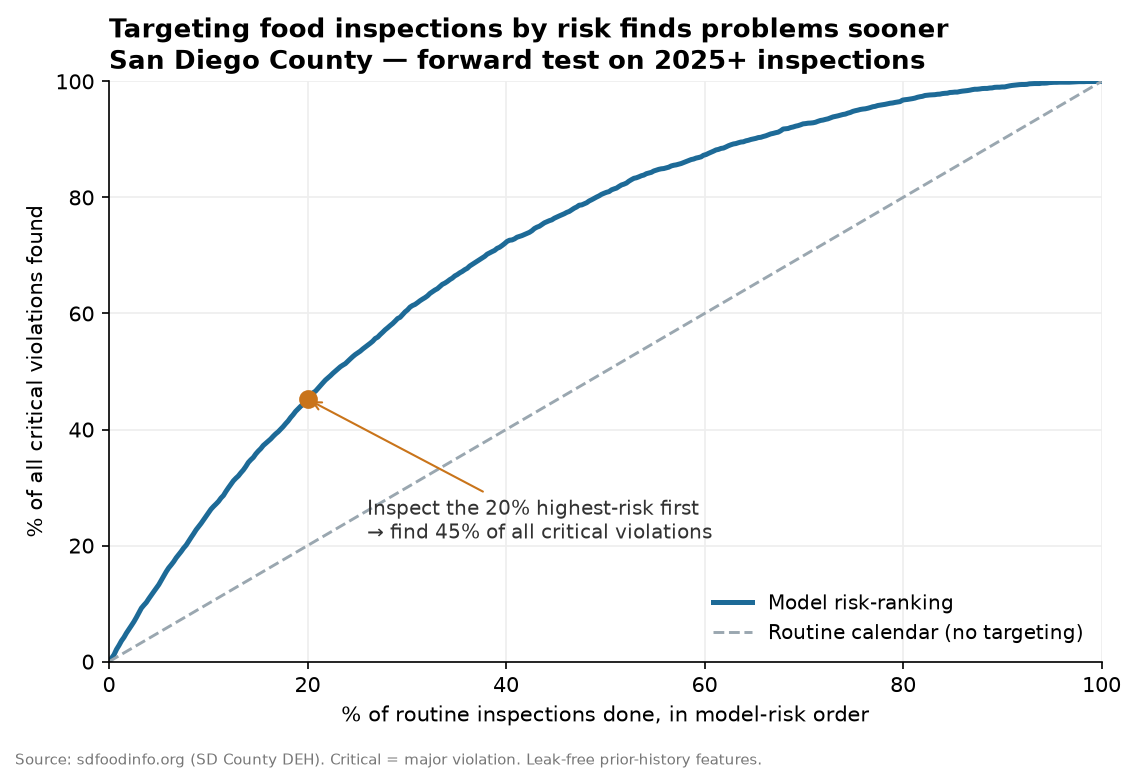
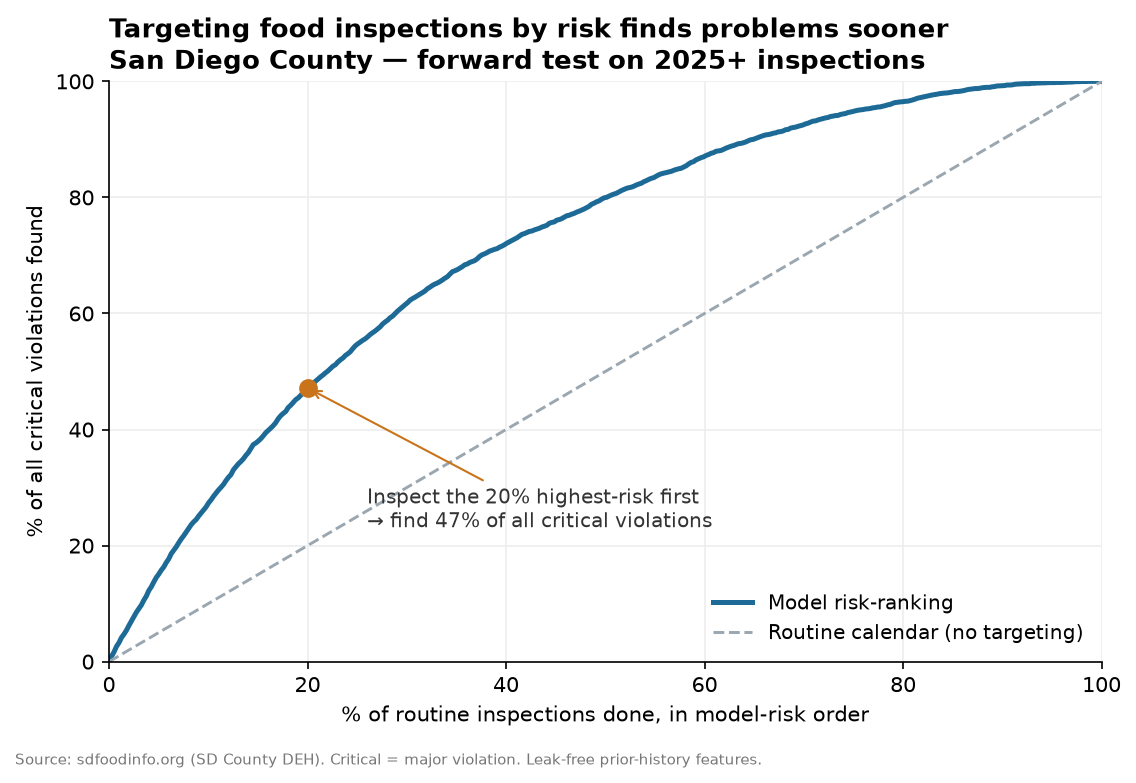
Fix score-sentinel leaking into prior-history features
Score is a not-scored sentinel (0) on 100% of non-routine inspections; computing last_score/prior_mean_score over the full history let those zeros masquerade as catastrophic prior scores. Null the sentinel off-routine and carry the last real routine score forward. Forward-test AUC 0.740 -> 0.745, PR-AUC 0.247 -> 0.264; score features are now clean and among the top drivers.

diff --git a/model_food.py b/model_food.py
@@ -16,6 +16,9 @@ df["opened_date"]    = pd.to_datetime(df["opened_date"], errors="coerce")
 df["score"] = pd.to_numeric(df["score"], errors="coerce")
 df = df.dropna(subset=["completed_date"]).sort_values(["business_id","completed_date"])
 df["major"] = (df["n_major"] > 0).astype(int)
+# score is a "not-scored" sentinel (0) on 100% of non-routine inspections; null it so
+# score-based priors reflect only real routine scores, not re-inspection zeros.
+df.loc[df["insp_type"].astype(str) != "Routine", "score"] = np.nan
 print(f"inspections: {len(df):,}  businesses: {df['business_id'].nunique():,}")
 print("date range:", df['completed_date'].min().date(), "->", df['completed_date'].max().date())
 print("overall major-violation rate:", f"{df['major'].mean()*100:.1f}%")
@@ -24,7 +27,7 @@ print("overall major-violation rate:", f"{df['major'].mean()*100:.1f}%")
 g = df.groupby("business_id", sort=False)
 df["prior_n"]          = g.cumcount()
 df["days_since_last"]  = (df["completed_date"] - g["completed_date"].shift(1)).dt.days
-df["last_score"]       = g["score"].shift(1)
+df["last_score"]       = g["score"].transform(lambda s: s.shift().ffill())  # last real routine score
 df["last_major"]       = (g["n_major"].shift(1) > 0).astype("float")
 df["prior_major_rate"] = g["major"].transform(lambda s: s.shift().expanding().mean())
 df["prior_mean_score"] = g["score"].transform(lambda s: s.shift().expanding().mean())

diff --git a/fairness_check.py b/fairness_check.py
@@ -16,10 +16,11 @@ df["opened_date"]=pd.to_datetime(df["opened_date"],errors="coerce")
 df["score"]=pd.to_numeric(df["score"],errors="coerce")
 df=df.dropna(subset=["completed_date"]).sort_values(["business_id","completed_date"])
 df["major"]=(df["n_major"]>0).astype(int)
+df.loc[df["insp_type"].astype(str)!="Routine","score"]=np.nan  # 0 is a not-scored sentinel off-routine
 g=df.groupby("business_id",sort=False)
 df["prior_n"]=g.cumcount()
 df["days_since_last"]=(df["completed_date"]-g["completed_date"].shift(1)).dt.days
-df["last_score"]=g["score"].shift(1)
+df["last_score"]=g["score"].transform(lambda s:s.shift().ffill())  # last real routine score
 df["last_major"]=(g["n_major"].shift(1)>0).astype("float")
 df["prior_major_rate"]=g["major"].transform(lambda s:s.shift().expanding().mean())
 df["prior_mean_score"]=g["score"].transform(lambda s:s.shift().expanding().mean())
